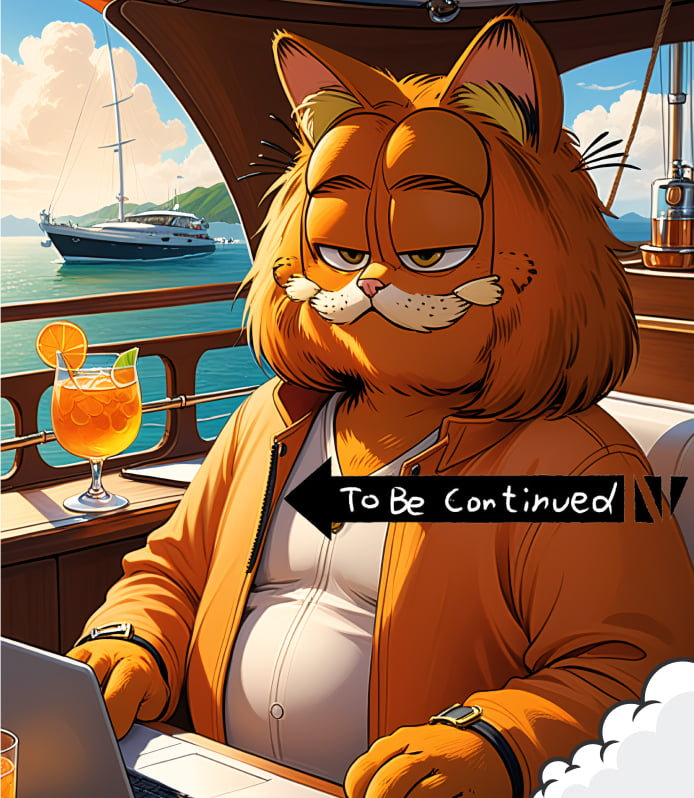
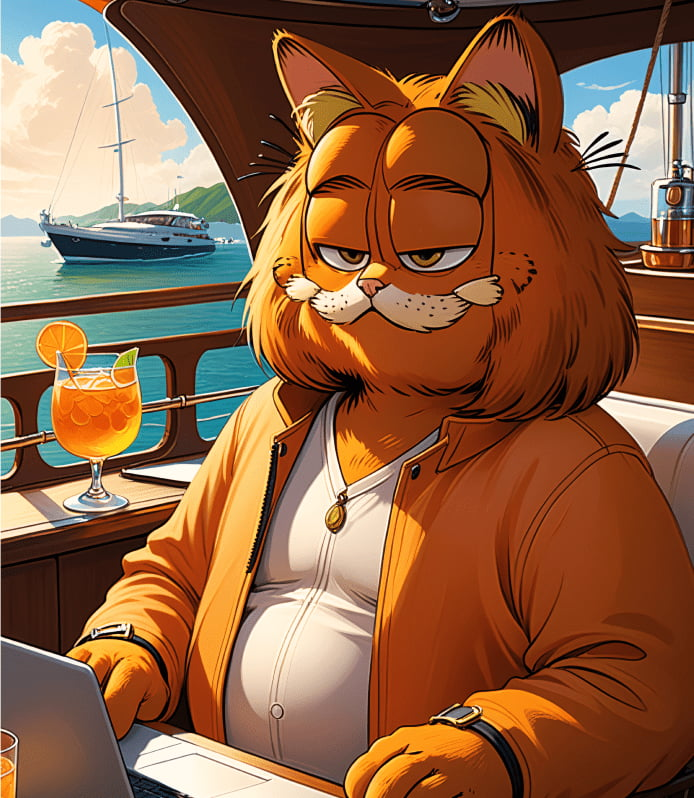
all desk section

Changed region(s): [[0.3934, 0.5714, 0.9986, 0.6917], [0.7565, 0.812, 1.0, 1.0]]

diff --git a/src/scss/base/base.scss b/src/scss/base/base.scss
@@ -10,6 +10,10 @@
 	// --height-footer: 10rem;
 	--gl-indent: 5rem;
 
+	--gl-ratio: 18;
+	--gl-wd: 100vw;
+	--gl-vh: 100vh;
+
 	@include bp($point_2, min) {
 		--height-header: 10rem;
 	}
@@ -24,12 +28,36 @@ html {
 	line-height: 1.3;
 	font-family: $font_1;
 
-	@include bp(1920px + 1, min) {
-		font-size: calc(100vw / 1920 * 10);
+	// @media (max-aspect-ratio: 1/1) {
+	// 	font-size: calc(100vh / 1920 * var(--gl-ratio));
+	// }
+
+	// @media (min-aspect-ratio: 1/1) {
+	// 	font-size: calc(100vh / 1920 * var(--gl-ratio));
+	// }
+
+	// @include bp(1920px + 1, min) {
+	// 	font-size: calc(100vw / 1920 * 10);
+	// }
+
+	// @media (min-height: 899px) and (max-height: 1079px) {
+	// 	font-size: calc(100vh / 1920 * 18);
+	// }
+
+	@media (min-aspect-ratio: 1/1) and (max-aspect-ratio: 2/1) {
+		font-size: calc(100vh / 1920 * var(--gl-ratio));
 	}
 
 	@include bp(1920px, $point_2) {
 		font-size: calc(100vw / 1920 * 10);
+	}
+
+	@media (min-aspect-ratio: 32/15) {
+		font-size: calc(100vh / 1920 * var(--gl-ratio));
+	}
+
+	@media (min-aspect-ratio: 1920/800) {
+		font-size: calc(100vh / 1920 * var(--gl-ratio));
 	}
 
 	@include bp($point_3, 768px) {

diff --git a/src/scss/components/nft.scss b/src/scss/components/nft.scss
@@ -34,9 +34,10 @@
 .nft__hero_info_w {
 	position: absolute;
 	bottom: 13vh;
-	left: 14vw;
+	left: 50%;
 	z-index: 1;
 	width: 62.8rem;
+	transform: translateX(-37%);
 }
 
 .nft__hero_info {
@@ -50,7 +51,7 @@
 	bottom: 0;
 	left: 0;
 	width: 100%;
-	height: 96.4rem;
+	height: 76vh;
 	border-radius: 1.6rem;
 	border: 2rem solid $white;
 }
@@ -235,4 +236,37 @@
 .nft__end_in {
 	padding: 4vh 6vw 0 9.5vw;
 	height: 100%;
+}
+
+.nft__end_continued {
+	position: absolute;
+	top: 50%;
+	right: 10%;
+	z-index: 1;
+	display: block;
+	width: 40.6rem;
+	height: 10rem;
+
+	img {
+		@include contain_img;
+	}
+}
+
+.nft__end_cloud {
+	position: absolute;
+	bottom: 0;
+	right: 0;
+	z-index: 2;
+
+	width: 16.5rem;
+	height: 14.1rem;
+	overflow: hidden;
+
+	img {
+		display: block;
+		object-fit: contain;
+		object-position: 0% 0%;
+		width: 240%;
+		height: 250%;
+	}
 }

diff --git a/src/scss/layout/sections.scss b/src/scss/layout/sections.scss
@@ -13,7 +13,7 @@
 
 .js-opacity-el,
 .js-fade-start {
-	will-change: transform opacity;
+	will-change: transform, opacity;
 }
 
 .js-cat-img {
